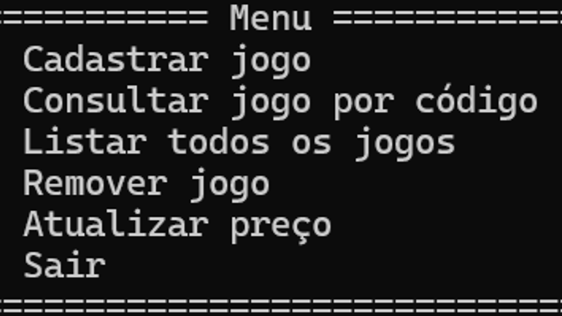
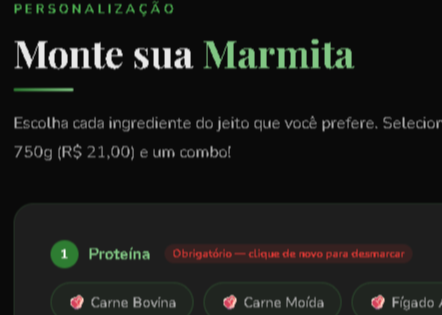
Add files via upload

diff --git a/index.html b/index.html
@@ -38,7 +38,7 @@
   <!-- HERO -->
   <section class="hero">
     <div class="hero-left">
-      <div class="hero-tag">Disponível para estágio</div>
+      <div class="hero-tag">Disponível para estágio, suporte técnico</div>
       <h1>Carlos Gabriel<br><span class="name-accent">Gehlen</span><br>de Oliveira</h1>
       <p class="hero-bio">
         Estudante de <strong>4º semestre</strong> apaixonado por tecnologia e desenvolvimento web.
@@ -51,7 +51,6 @@
       </div>
     </div>
     <div class="hero-right">
-      <div class="img-frame">
         <img src="./img/eu.jpeg" alt="Foto de Carlos Gabriel" class="profile-photo">
       </div>
     </div>
@@ -60,8 +59,8 @@
   <!-- STATS -->
   <div class="stats-bar">
     <div class="stat">
-      <div class="stat-num">4°</div>
-      <div class="stat-label">Semestre em andamento</div>
+      <div class="stat-num">4° semestre</div>
+      <div class="stat-label">curso em andamento</div>
     </div>
     <div class="stat">
       <div class="stat-num">5+</div>
@@ -83,7 +82,8 @@
       <div class="about-text">
         <p>
           Olá! Sou <strong>Carlos Gabriel Gehlen de Oliveira</strong>, estudante de tecnologia no 4º semestre,
-          apaixonado por criar interfaces bonitas e funcionais para a web.
+          apaixonado por criar projetos e transformar ideias em código, 
+          e solucionar problemas reais de empresas.
         </p>
         <p>
           Minha jornada na programação começou com curiosidade e hoje é uma <strong>busca constante por
@@ -113,8 +113,8 @@
           <span class="detail-value" style="color: var(--accent);">Buscando estágio ✓</span>
         </div>
         <div class="detail-row">
-          <span class="detail-label">Foco atual</span>
-          <span class="detail-value">HTML, CSS, JavaScript, Python, Node</span>
+          <span class="detail-label">Tecnologias</span>
+          <span class="detail-value">HTML, CSS, JavaScript, Python, Node, Mysql, Django, React</span>
         </div>
       </div>
     </div>
@@ -129,7 +129,7 @@
     <div class="skills-grid">
       <div class="skill-card">
         <span class="skill-icon">🌐</span>
-        <span class="skill-name">HTML5</span>
+        <span class="skill-name">HTML5, React.Native</span>
         <span class="skill-level">Estrutura semântica</span>
       </div>
       <div class="skill-card">
@@ -145,7 +145,7 @@
       <div class="skill-card">
         <span class="skill-icon">📱</span>
         <span class="skill-name">Responsivo</span>
-        <span class="skill-level">Mobile-first design</span>
+        <span class="skill-level">desenvolvimento Mobile</span>
       </div>
       <div class="skill-card">
         <span class="skill-icon">🔧</span>
@@ -155,17 +155,17 @@
       <div class="skill-card">
         <span class="skill-icon">🧠</span>
         <span class="skill-name">Python</span>
-        <span class="skill-level">Django, React</span>
+        <span class="skill-level">Django</span>
       </div>
        <div class="skill-card">
         <span class="skill-icon">👨💻</span>
         <span class="skill-name">SoftSkills</span>
-        <span class="skill-level">Resolução de Problemas e Pensamento Crítico<br> Comunicação<br> Resiliência</span>
+        <span class="skill-level">Resolução de Problemas e Pensamento Crítico,<br> desenvolver ideias em codigo<br> Comunicação<br> Resiliência</span>
       </div>
       <div class="skill-card">
         <span class="skill-icon">👨🔬</span>
         <span class="skill-name">Curso Complementares</span>
-        <span class="skill-level">Manutenção de Hardware<br> Administração</span>
+        <span class="skill-level">Manutenção de Hardware<br> Administração<br> SENAI</span>
       </div>
     </div>
   </section>
@@ -173,7 +173,6 @@
   <!-- PROJETOS -->
   <section id="projetos">
     <div class="sec-header">
-      <span class="sec-num">03</span>
       <h2 class="sec-title">Projetos</h2>
     </div>
     <div class="projects-grid">
@@ -181,61 +180,60 @@
       <!-- CARD 1 -->
       <div class="proj-card">
         <div class="proj-thumb">
-          <span class="proj-thumb-num">01</span>
           <img src="./img/P1.png" class="proj-thumb-edit" alt="Sistema de agendamento">
         </div>
         <div class="proj-body">
           <div class="proj-tags">
-            <span class="proj-tag">Python</span>
-            <span class="proj-tag">Django</span>
+            <span class="proj-tag">PYTHON</span>
+            <span class="proj-tag">DJANGO</span>
+            <span class="proj-tag">MySql lite</span>
             <span class="proj-tag">HTML</span>
             <span class="proj-tag">CSS</span>
+            <span class="proj-tag">JS</span>
           </div>
           <h3 class="proj-title">Sistema de agendamento de serviços</h3>
-          <p class="proj-desc">Sistema de agendamento de serviços com cadastro de usuário e prestador de serviço.</p>
+          <p class="proj-desc">Sistema de agendamento de serviços com cadastro de usuário e prestador de serviço. cliente agenda serviço. prestador oferece serviço. api completa!</p>
         </div>
         <div class="proj-footer">
-          <a href="#" class="proj-link">Ver projeto →</a>
-          <span class="proj-edit-badge">Editar</span>
+          <a href="https://carlosg2004.github.io/Sistema_Agendamento_CRUD/" class="proj-link">Ver projeto →</a>
         </div>
       </div>
 
       <!-- CARD 2 -->
       <div class="proj-card">
-        <div class="proj-thumb">
-          <span class="proj-thumb-num">02</span>
+        <div class="proj-thumb">          
           <img src="./img/P2.png" class="proj-thumb-edit" alt="Caixa eletrônico">
         </div>
         <div class="proj-body">
           <div class="proj-tags">
-            <span class="proj-tag">Python</span>
+            <span class="proj-tag">HTML</span>
+            <span class="proj-tag">CSS</span>
+            <span class="proj-tag">JS</span>
           </div>
-          <h3 class="proj-title">LOJA DE JOGOS</h3>
-          <p class="proj-desc">CRUD. Cadastra, consulta usando Hashmap, lista , atualiza preço, remove jogos pelo ID.</p>
+          <h3 class="proj-title">SITE UM PEQUENO NEGÓCIO</h3>
+          <p class="proj-desc">Site Completo. Cadastra usuario e salva seus dados, monta sua marmita seleciona seu tamamanho e combo referente ao tamanho,<br> outros produtos como massa e risoles, sistema de carrinho com checkout, sistema de pagamento simples , entrega. mensagem pronta ao WhatsApp</p>
         </div>
         <div class="proj-footer">
-          <a href="#" class="proj-link">Ver projeto →</a>
-          <span class="proj-edit-badge">Editar</span>
+          <a href="https://carlosg2004.github.io/manas-fit-project/" class="proj-link">Ver projeto →</a>
         </div>
       </div>
 
       <!-- CARD 3 -->
       <div class="proj-card">
         <div class="proj-thumb">
-          <span class="proj-thumb-num">03</span>
           <img src="./img/P3.png" class="proj-thumb-edit" alt="Landing page">
         </div>
         <div class="proj-body">
           <div class="proj-tags">
             <span class="proj-tag">HTML</span>
             <span class="proj-tag">CSS</span>
+            <span class="proj-tag">JS</span>
           </div>
-          <h3 class="proj-title">Landing Page</h3>
-          <p class="proj-desc">Landing page — Criador Lanches.</p>
+          <h3 class="proj-title">AMBIENTE VIRTUAL</h3>
+          <p class="proj-desc">AMBIENTE VIRTUAL — AMBIENTE de Notas,tabelas, listas.<br> inpirado no Notion, usando deploy no vercel <br>(Em desenvolvimento).<br> quero fazer um Saas<br> para ter como renda e estou me desafiando cade vez mais</p>
         </div>
         <div class="proj-footer">
-          <a href="#" class="proj-link">Ver projeto →</a>
-          <span class="proj-edit-badge">Editar</span>
+          <a href="https://mycavern.vercel.app/" class="proj-link">Ver projeto →</a>
         </div>
       </div>
 
